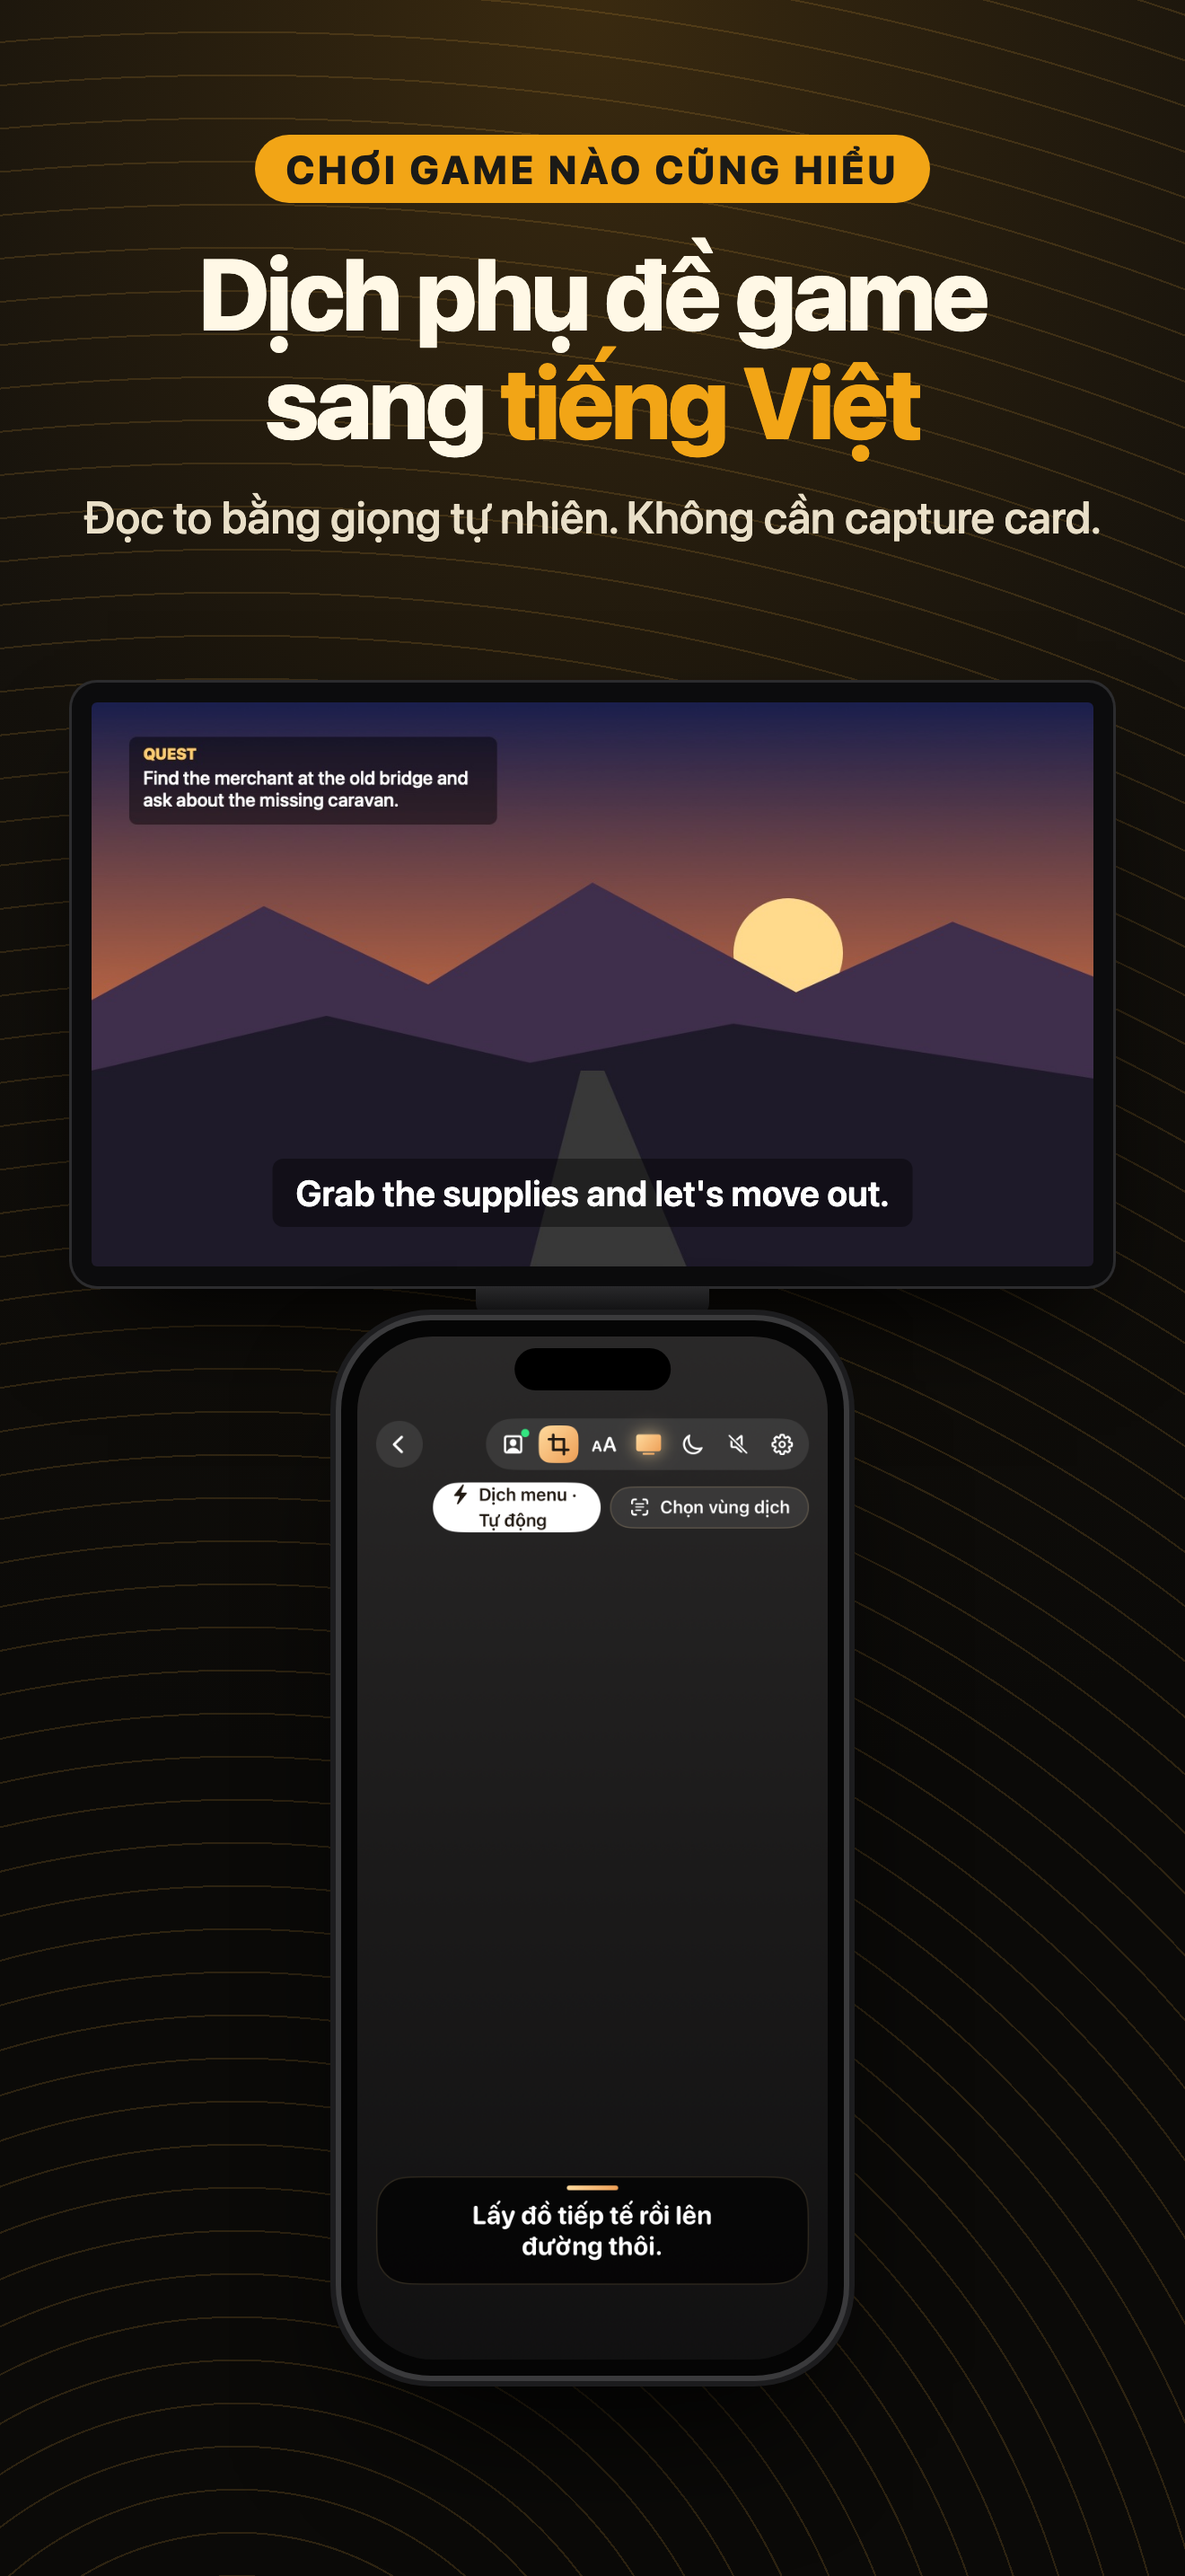
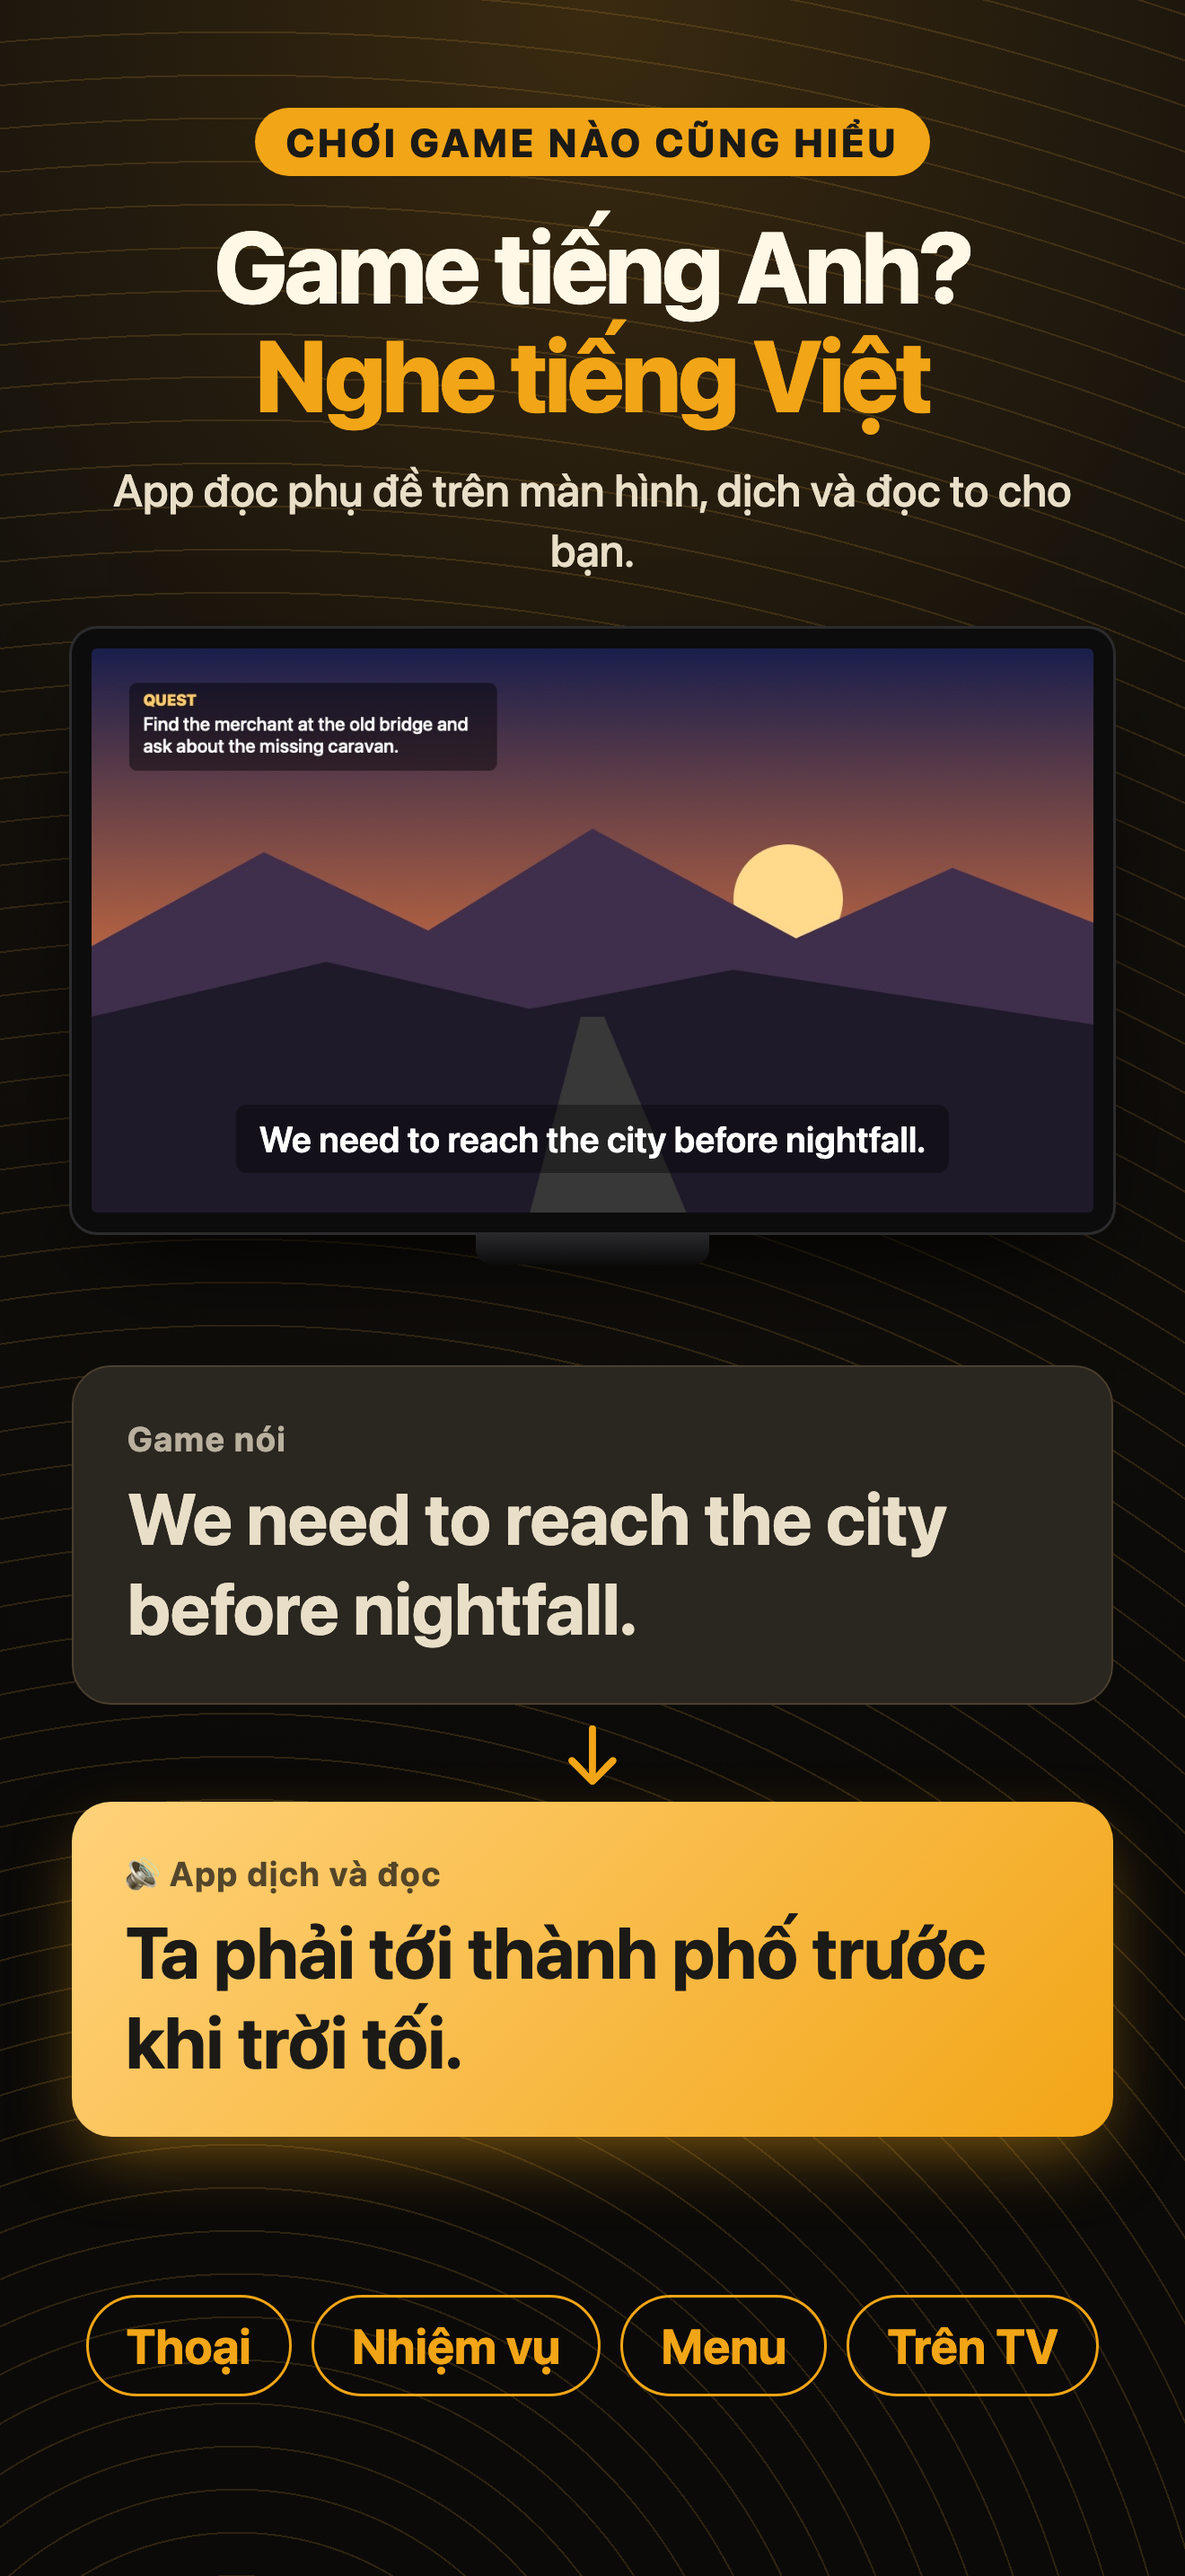
App Store shots: clearer story (English in, Vietnamese out), tighter layout, 3-step shot instead of the dark live screen

diff --git a/appstore/index.html b/appstore/index.html
@@ -62,36 +62,48 @@
   .desc h3 { font-size: 22px; margin: 24px 0 8px; }
   .note { margin-top: 30px; font-size: 14px; color: #6e6e73; }
   .note code { background: #e5e5ea; padding: 2px 6px; border-radius: 6px; }
+
+  .cap { top: 120px; }
+  .phone.big { top: 640px; width: 1060px; }
+  .phone.duo { top: 1380px; width: 760px; border-radius: 116px; padding: 22px; }
+  .phone.duo img { border-radius: 96px; }
+  .phone.half { top: 1640px; width: 900px; }
+  .tv .sub.en { background: rgba(0,0,0,.35); font-weight: 600; }
+  .flow { position: absolute; left: 80px; right: 80px; top: 1520px; }
+  .card { border-radius: 44px; padding: 56px 60px; font-size: 80px; line-height: 1.25; font-weight: 700; }
+  .card span { display: block; font-size: 38px; font-weight: 700; letter-spacing: .04em; margin-bottom: 14px; opacity: .75; }
+  .card.en { background: #2a2620; color: #e9dfc8; border: 2px solid #4a4030; }
+  .card.vi { background: linear-gradient(135deg, #ffd27a, #f2a516); color: #1b1a17; box-shadow: 0 30px 80px -20px #f2a51688; }
+  .arrow { text-align: center; font-size: 90px; color: var(--amber); line-height: 1.2; }
+  .chips { position: absolute; left: 0; right: 0; bottom: 200px; display: flex; justify-content: center; gap: 22px; }
+  .chips b { font-size: 54px; padding: 22px 42px; border-radius: 999px; border: 3px solid var(--amber); color: var(--amber); }
+  .steps { position: absolute; left: 90px; right: 90px; top: 640px; display: grid; gap: 30px; }
+  .steps div { display: grid; grid-template-columns: 130px 1fr; column-gap: 36px; align-items: center; background: #221d15; border: 2px solid #4a4030; border-radius: 40px; padding: 36px 44px; }
+  .steps i { grid-row: span 2; width: 130px; height: 130px; border-radius: 50%; background: var(--amber); color: #1b1a17; font: 800 72px/130px -apple-system, sans-serif; text-align: center; font-style: normal; }
+  .steps b { font-size: 60px; } .steps span { font-size: 42px; color: #cfc3a8; }
 </style>
 </head>
 <body>
 <template id="shots">
   <section class="shot">
-    <div class="cap"><span class="k">CHƠI GAME NÀO CŨNG HIỂU</span><h2>Dịch phụ đề game<br>sang <em>tiếng Việt</em></h2><p>Đọc to bằng giọng tự nhiên. Không cần capture card.</p></div>
-    <div class="tv"><div class="bezel"><div class="screen"><img src="tv-scene-road.jpg" alt=""><div class="sub" style="background:rgba(0,0,0,.4);font-weight:600">Grab the supplies and let's move out.</div></div></div><div class="stand"></div></div>
-    <div class="phone" style="top:1470px;width:560px"><img src="raw/live.png" alt=""></div>
+    <div class="cap"><span class="k">CHƠI GAME NÀO CŨNG HIỂU</span><h2>Game tiếng Anh?<br><em>Nghe tiếng Việt</em></h2><p>App đọc phụ đề trên màn hình, dịch và đọc to cho bạn.</p></div><div class="tv" style="top:700px"><div class="bezel"><div class="screen"><img src="tv-scene-road.jpg" alt=""><div class="sub en">We need to reach the city before nightfall.</div></div></div><div class="stand"></div></div><div class="flow"><div class="card en"><span>Game nói</span>We need to reach the city before nightfall.</div><div class="arrow">↓</div><div class="card vi"><span>🔊 App dịch và đọc</span>Ta phải tới thành phố trước khi trời tối.</div></div>
+ <div class="chips"><b>Thoại</b><b>Nhiệm vụ</b><b>Menu</b><b>Trên TV</b></div>
   </section>
   <section class="shot">
-    <div class="cap"><span class="k">PHỤ ĐỀ TRÊN TV</span><h2>Bản dịch hiện<br><em>ngay trên TV</em></h2><p>Đè lên hình game, không trễ. Android TV, LG, Samsung.</p></div>
-    <div class="tv"><div class="bezel"><div class="screen"><img src="tv-scene-road.jpg" alt=""><div class="sub">Ta phải tới thành phố trước khi trời tối.</div></div></div><div class="stand"></div></div>
-    <div class="phone"><img src="raw/tv.png" alt=""></div>
+    <div class="cap"><span class="k">PHỤ ĐỀ TRÊN TV</span><h2>Bản dịch hiện<br><em>ngay trên TV</em></h2><p>Đè lên hình game, không trễ. Android TV, LG, Samsung.</p></div><div class="tv" style="top:640px"><div class="bezel"><div class="screen"><img src="tv-scene-road.jpg" alt=""><div class="sub">Ta phải tới thành phố trước khi trời tối.</div><div class="box" style="left:43%;top:6%;width:42%">Tìm người lái buôn ở cây cầu cũ và hỏi về đoàn xe bị mất tích.</div></div></div><div class="stand"></div></div><div class="phone duo"><img src="raw/tv.png" alt=""></div>
   </section>
   <section class="shot">
-    <div class="cap"><span class="k">CÀI MỘT LẦN</span><h2>Kéo khung<br>tới <em>dòng phụ đề</em></h2><p>App tự đọc và dịch từng câu thoại.</p></div>
-    <div class="phone low"><img src="raw/scan.png" alt=""></div>
+    <div class="cap"><span class="k">CÀI MỘT LẦN</span><h2>Kéo khung<br>tới <em>dòng phụ đề</em></h2><p>App tự đọc và dịch từng câu thoại.</p></div><div class="phone big"><img src="raw/scan.png" alt=""></div>
   </section>
   <section class="shot">
-    <div class="cap"><span class="k">CHỌN VÙNG DỊCH</span><h2>Dịch <em>nhiệm vụ</em>,<br>thư, vật phẩm</h2><p>Kéo khung cam tới chữ, thả tay là ra bản dịch.</p></div>
-    <div class="phone low"><img src="raw/area.png" alt=""></div>
+    <div class="cap"><span class="k">CHỌN VÙNG DỊCH</span><h2>Dịch <em>nhiệm vụ</em>,<br>thư, vật phẩm</h2><p>Kéo khung cam tới chữ, thả tay là ra bản dịch.</p></div><div class="phone big"><img src="raw/area.png" alt=""></div>
   </section>
   <section class="shot">
-    <div class="cap"><span class="k">DỊCH MENU TỰ ĐỘNG</span><h2>Mở menu là<br><em>tự dịch</em></h2><p>Kỹ năng, túi đồ, hướng dẫn: không cần bấm.</p></div>
-    <div class="tv"><div class="bezel"><div class="screen"><img src="tv-scene-menu.jpg" alt=""><div class="box" style="left:43.4%;top:42.5%;width:47.6%">Lướt xuyên qua kẻ địch, làm chúng choáng trong ba giây. Tốn một thanh thể lực.</div><div class="box" style="left:43.4%;top:70.5%;width:47.6%">Mở khóa lần lướt thứ hai và giảm thể lực tốn cho mỗi lần né.</div></div></div><div class="stand"></div></div>
-    <div class="phone"><img src="raw/menu.png" alt=""></div>
+    <div class="cap"><span class="k">DỊCH MENU TỰ ĐỘNG</span><h2>Mở menu là<br><em>tự dịch</em></h2><p>Kỹ năng, túi đồ, hướng dẫn: không cần bấm.</p></div><div class="tv" style="top:640px"><div class="bezel"><div class="screen"><img src="tv-scene-menu.jpg" alt=""><div class="box" style="left:43.4%;top:42.5%;width:47.6%">Lướt xuyên qua kẻ địch, làm chúng choáng trong ba giây. Tốn một thanh thể lực.</div><div class="box" style="left:43.4%;top:70.5%;width:47.6%">Mở khóa lần lướt thứ hai và giảm thể lực tốn cho mỗi lần né.</div></div></div><div class="stand"></div></div><div class="phone duo"><img src="raw/menu.png" alt=""></div>
   </section>
   <section class="shot">
-    <div class="cap"><span class="k">KẾT NỐI QUA WI-FI</span><h2>Chơi trên TV,<br><em>dịch trên iPhone</em></h2><p>Ghép nối một lần, lần sau chỉ cần bấm Bắt đầu.</p></div>
-    <div class="phone low"><img src="raw/home.png" alt=""></div>
+    <div class="cap"><span class="k">DỄ DÙNG</span><h2>3 bước là <em>chơi</em></h2><p>Không cần capture card, không cần máy tính.</p></div><div class="steps"><div><i>1</i><b>Ghép nối qua Wi-Fi</b><span>Chỉ làm một lần</span></div><div><i>2</i><b>Chơi trên TV như thường</b><span>Tay cầm, hình gốc, không trễ</span></div><div><i>3</i><b>iPhone dịch và đọc to</b><span>Hoặc hiện thẳng trên TV</span></div></div>
+ <div class="phone half"><img src="raw/home.png" alt=""></div>
   </section>
 </template>
 
